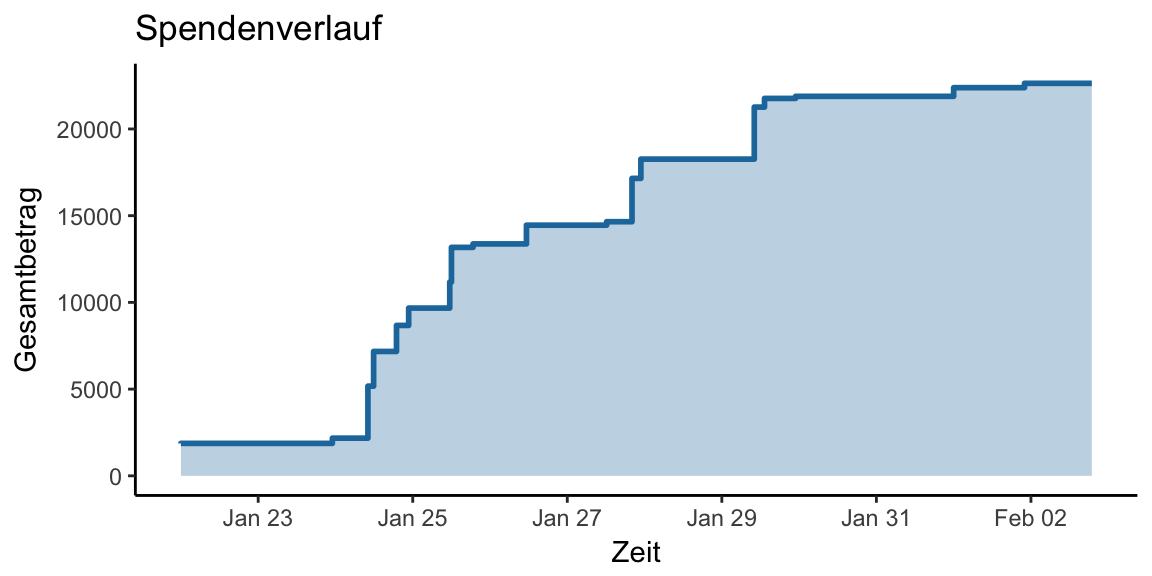
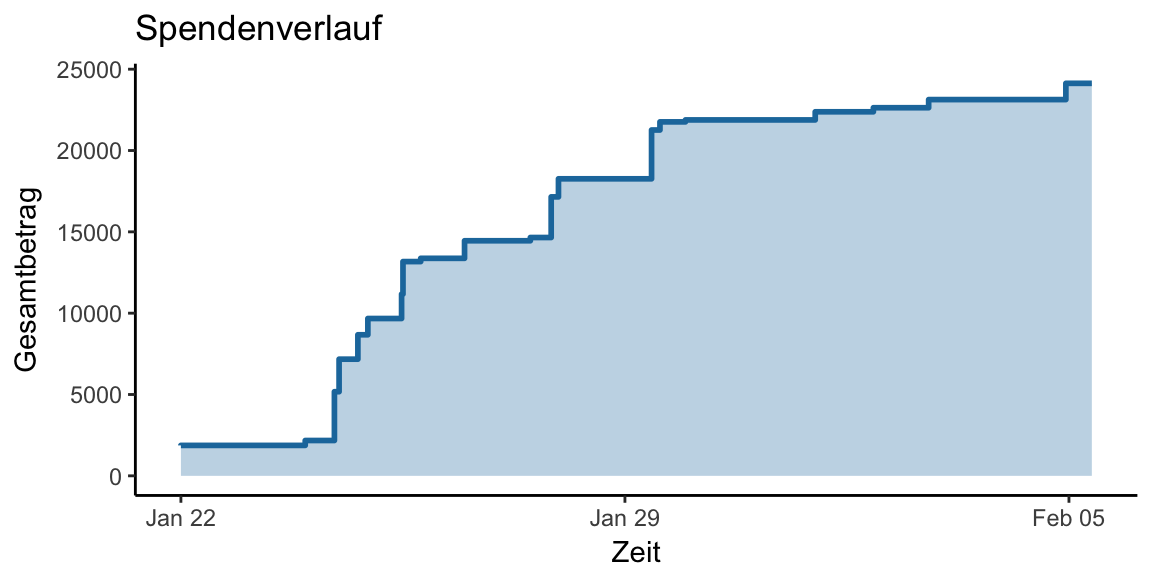
tim kerstin

diff --git a/Results.html b/Results.html
@@ -224,7 +224,7 @@ $(document).ready(function () {
 
 
 <p align="right" class="text-primary">
-Stand: 02.02.2018 22:04
+Stand: 05.02.2018 10:35
 </p>
 <p> </p>
 <p> </p>
@@ -258,7 +258,7 @@ Spende
 Spende bei Zuschlag
 </td>
 <td style="text-align:right;">
-19339
+20839
 </td>
 </tr>
 <tr>
@@ -282,7 +282,7 @@ Für unser eigenes Zentrum
 Gesamt
 </td>
 <td style="text-align:right;font-weight: bold;color: white;background-color: #1F79AB;">
-22631
+24131
 </td>
 </tr>
 </tbody>
@@ -292,7 +292,7 @@ Gesamt
 <div class="card text-white bg-primary mb-3" style="max-width: 80rem;">
   <div class="card-body" align="center">
     &nbsp;
-    <p class="card-text" align="center"> <b>14</b> Leute haben bisher <b>22631 €</b> gespendet oder zugesagt!</p>
+    <p class="card-text" align="center"> <b>16</b> Leute haben bisher <b>24131 €</b> gespendet oder zugesagt!</p>
     &nbsp; 
   </div>
 </div>
